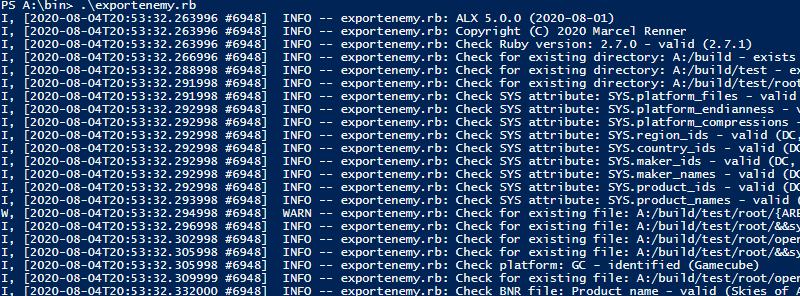
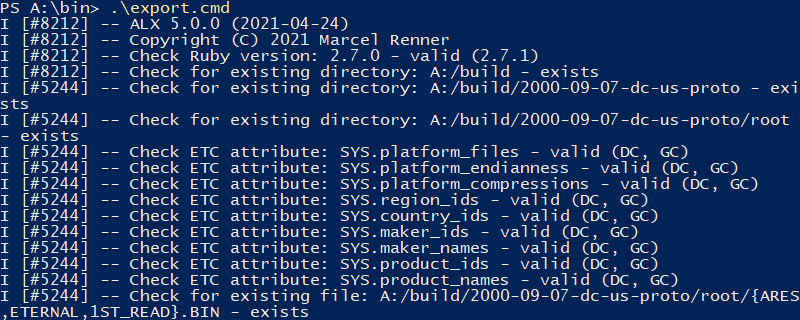
Updated documentation, images and version to 5.0.0

diff --git a/lib/alx/executable.rb b/lib/alx/executable.rb
@@ -48,9 +48,9 @@ module Executable
 #==============================================================================
 
   # Version of ALX
-  VERSION = '5.0.0-B3'.freeze
+  VERSION = '5.0.0'.freeze
   # Date of ALX
-  DATE    = Date.new(2021, 4, 23).freeze
+  DATE    = Date.new(2021, 4, 24).freeze
 
 #==============================================================================
 #                                   PUBLIC

diff --git a/README.md b/README.md
@@ -128,10 +128,8 @@ build
 
 ### clearcache.cmd & clearcache.rb
 
-Clears the cache storage in the `cache` directory. If you clear the cache 
-storage, snapshots will not be loaded and differences will not be detected, 
-which enormously increases the next runtime. Normally, you will not need this 
-utility, however, it can be used to force a recompilation of all files.
+Clears the cache storage in the `cache` directory. Normally, you will not need 
+this utility, however, it can be used to force a recompilation of all files.
 
 ```
 build

diff --git a/CREDITS.md b/CREDITS.md
@@ -13,6 +13,7 @@
 
 ## Software
 
+* [7-Zip](https://www.7-zip.org/) — File Archiver
 * [Dolphin Emulator](https://dolphin-emu.org/) — GameCube Emulator
 * [Eclipse](https://www.eclipse.org/) — Source Code Editor
 * [Free Hex Editor Neo](https://www.hhdsoftware.com/free-hex-editor) — 
